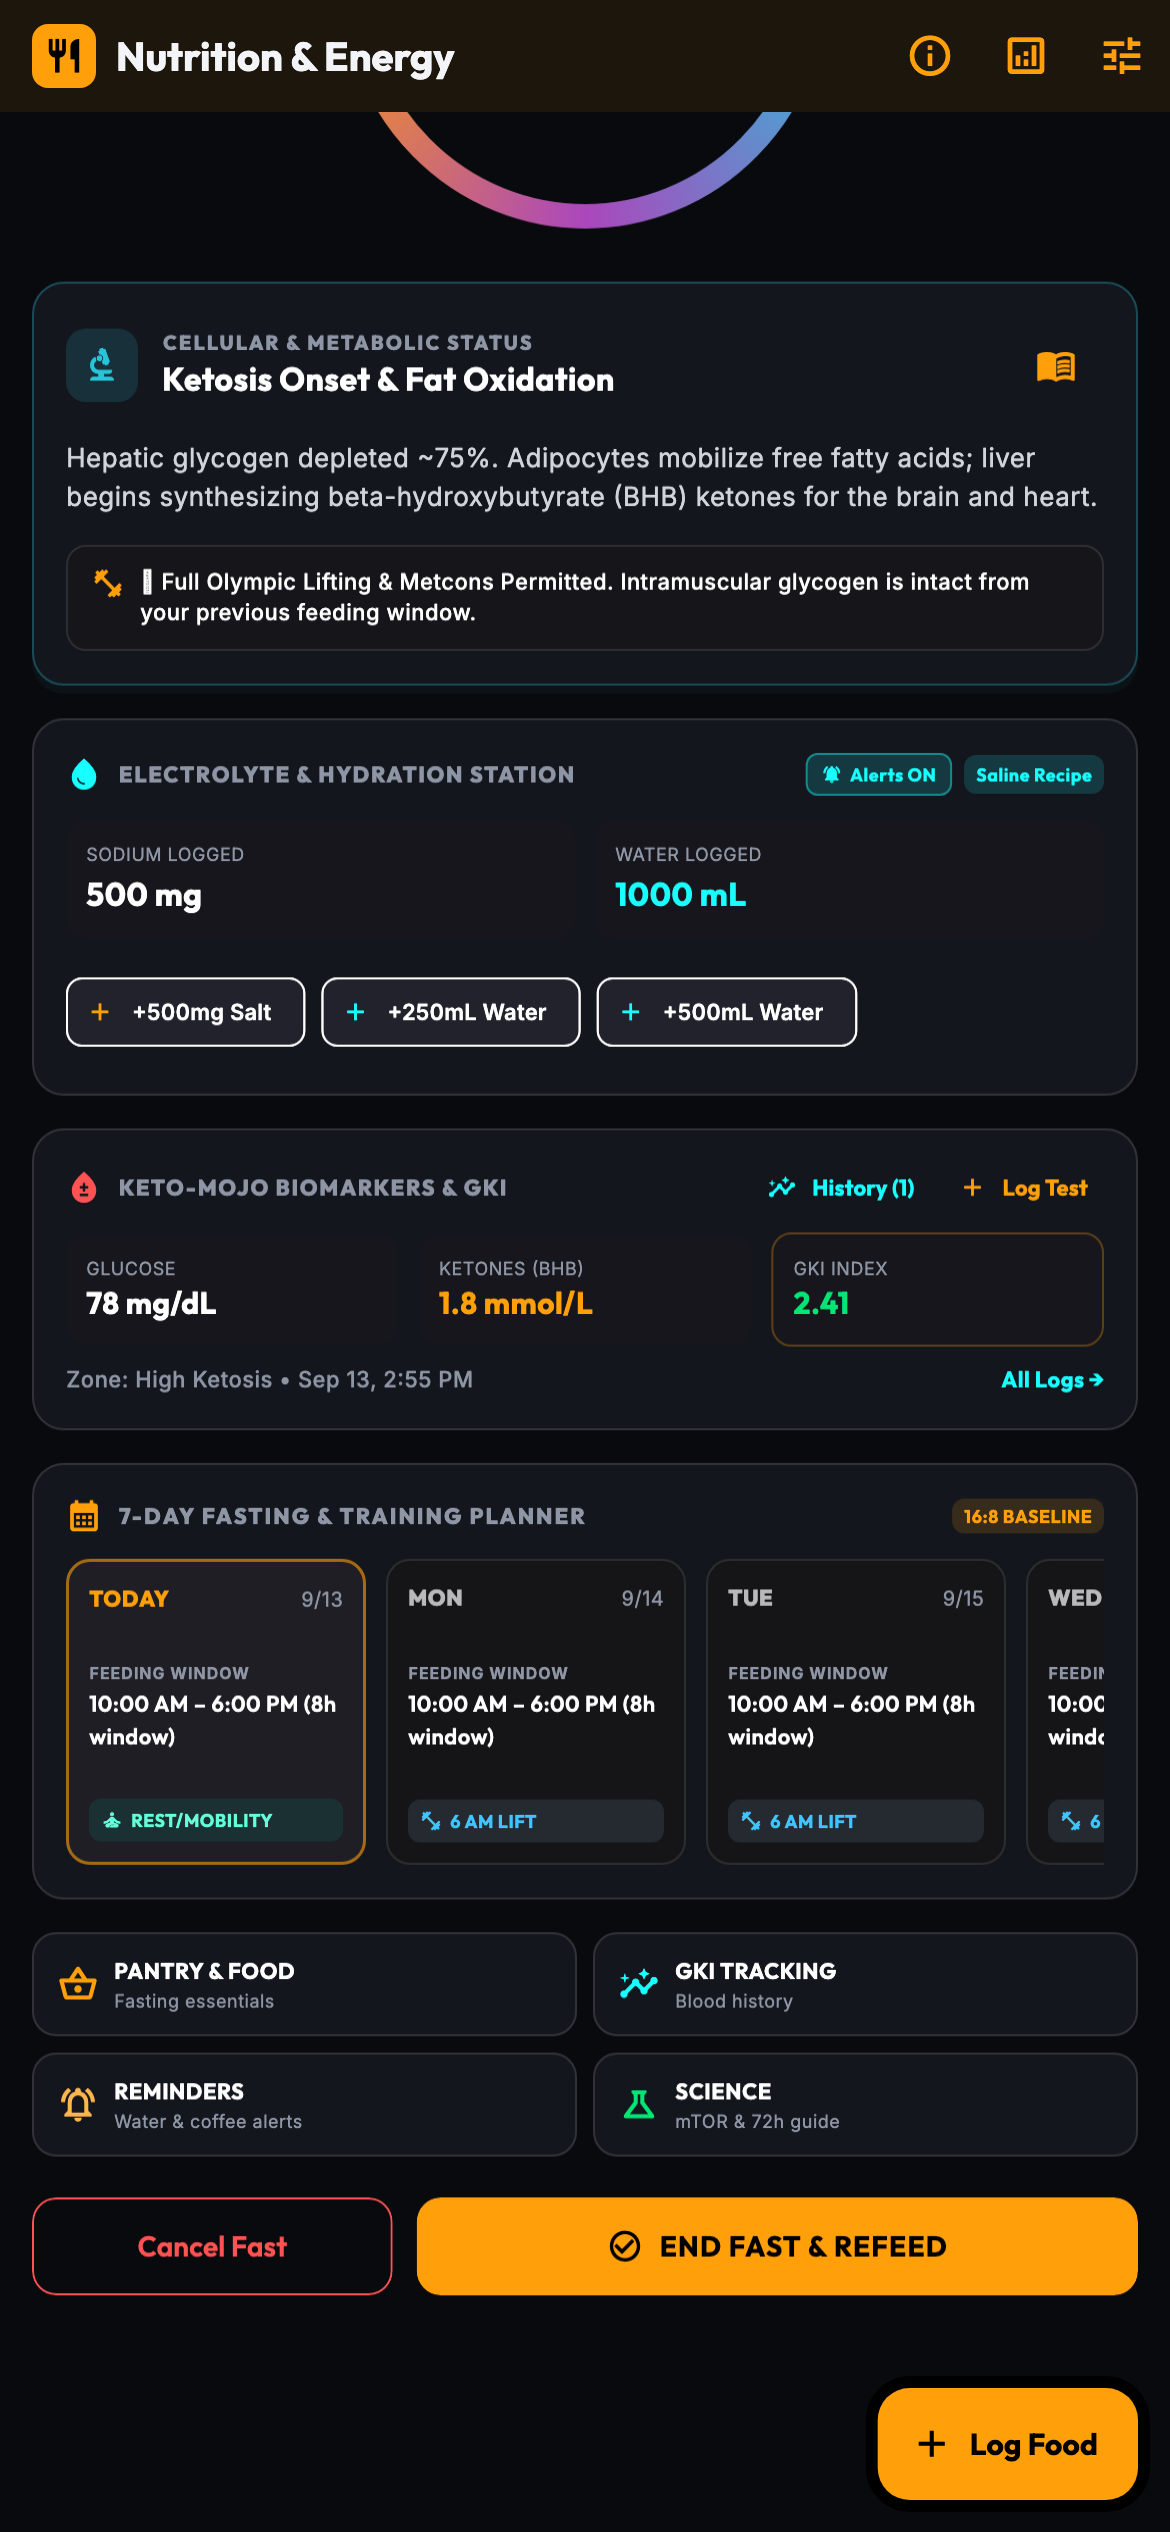
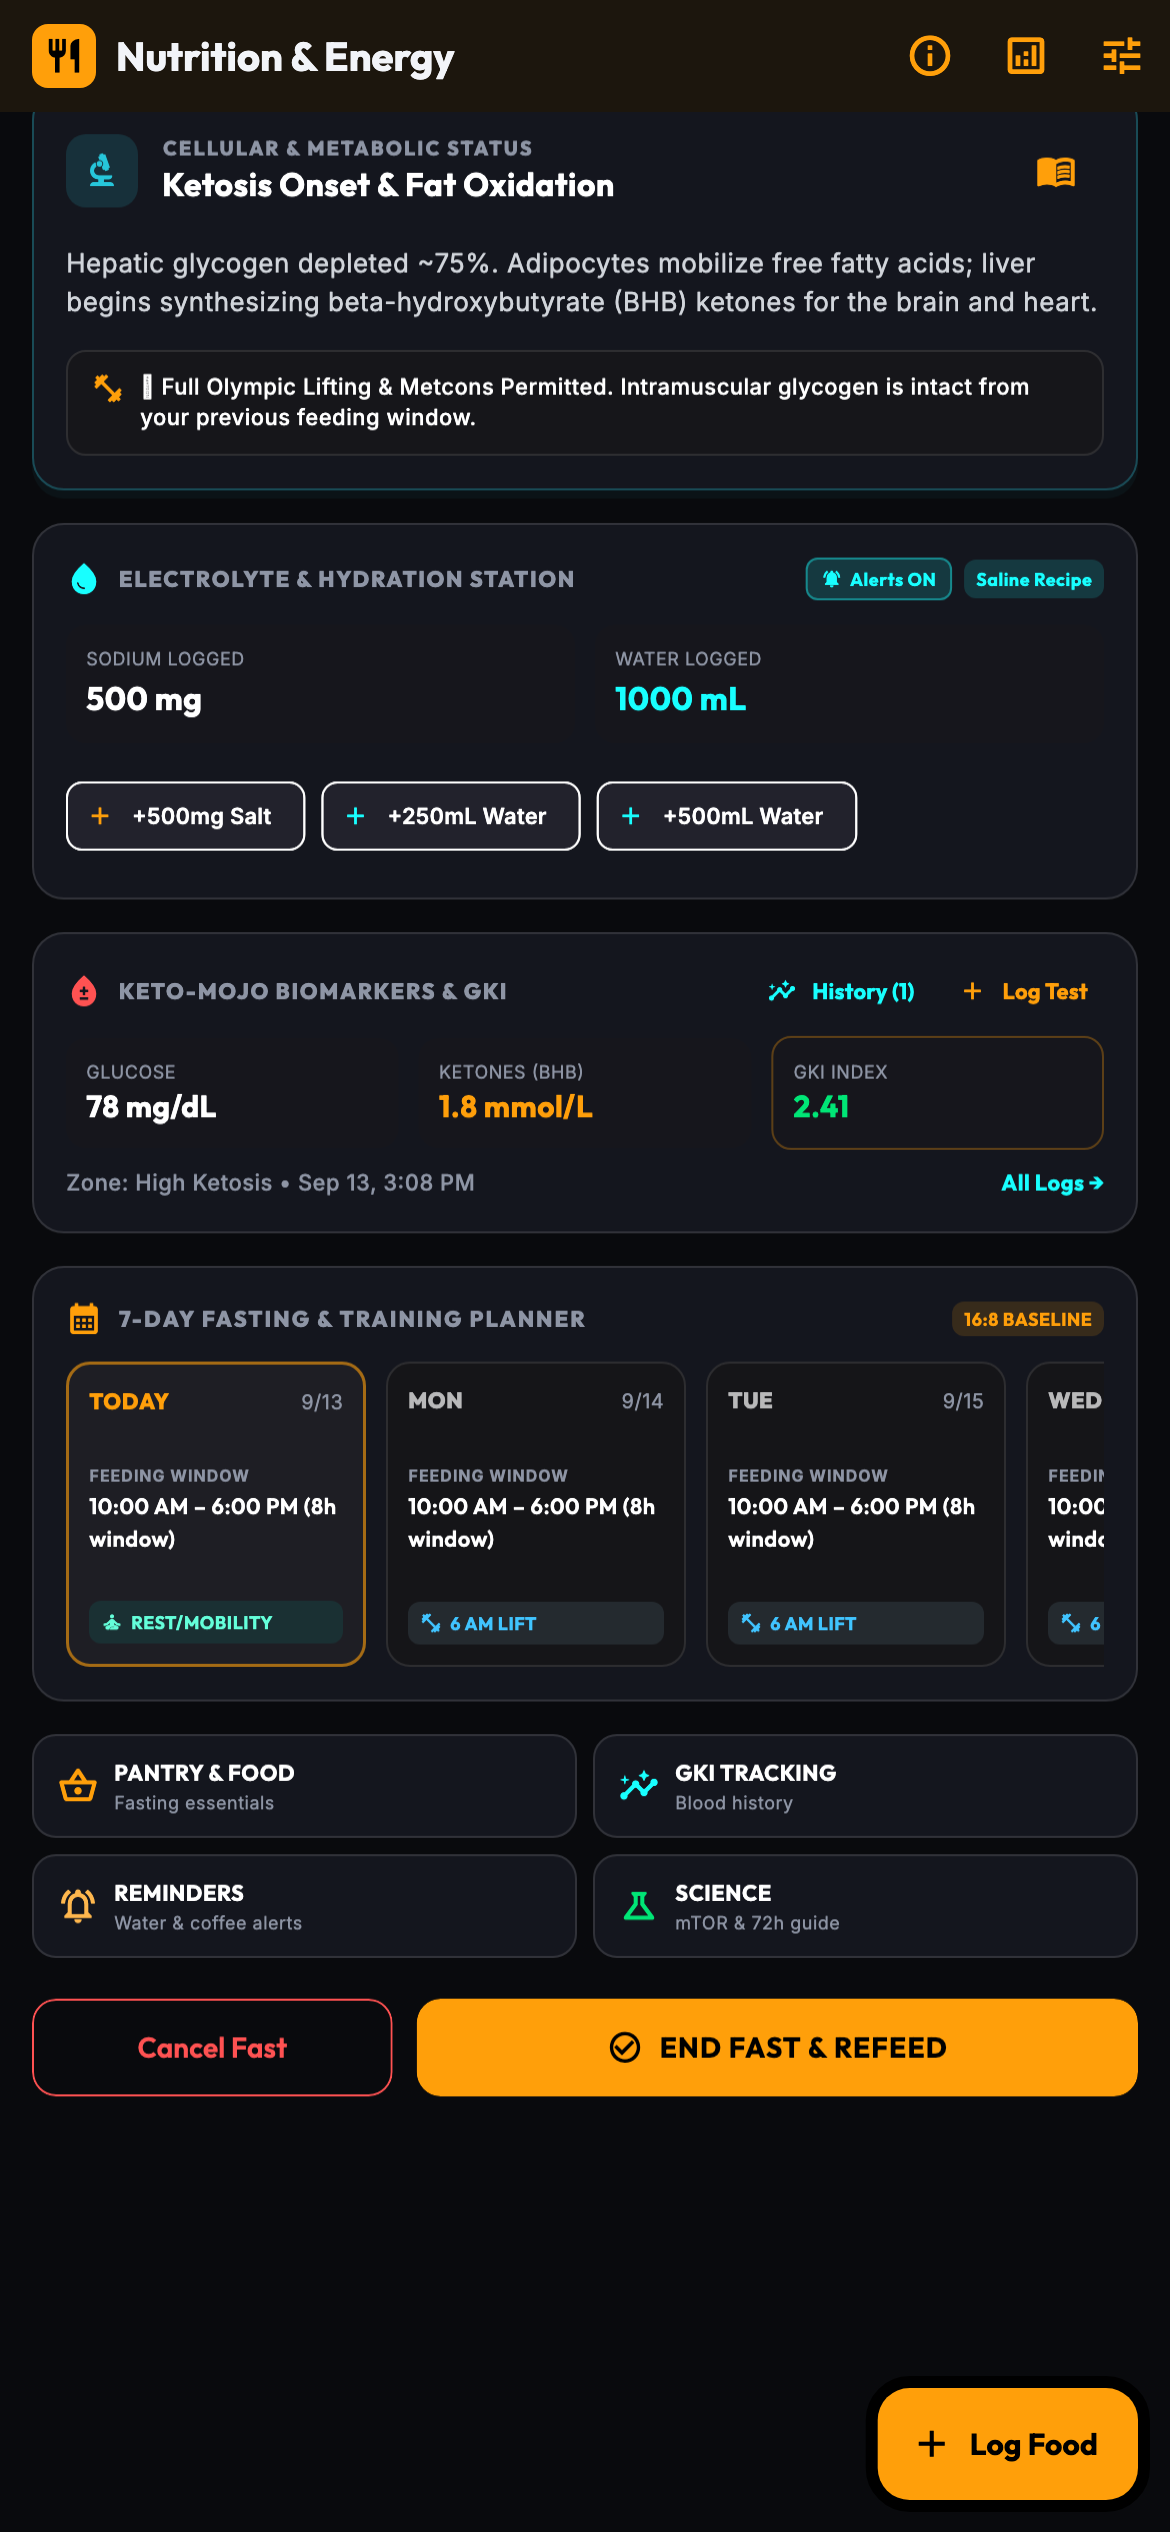
feat(ui): implement true glassmorphic floating capsule dock with extendBody and scroll depth

diff --git a/lib/views/analytics_screen.dart b/lib/views/analytics_screen.dart
@@ -91,7 +91,7 @@ class AnalyticsScreen extends StatelessWidget {
 
       // Ratio Balance Chart
       SingleChildScrollView(
-        padding: const EdgeInsets.all(16),
+        padding: const EdgeInsets.fromLTRB(16, 16, 16, 110),
         child: RatioChartWidget(ratios: lifts.getRatioAnalysis()),
       ),
     ];
@@ -129,7 +129,7 @@ class AnalyticsScreen extends StatelessWidget {
     SettingsProvider settings,
   ) {
     return SingleChildScrollView(
-      padding: const EdgeInsets.all(16),
+      padding: const EdgeInsets.fromLTRB(16, 16, 16, 110),
       child: Column(
         crossAxisAlignment: CrossAxisAlignment.start,
         children: <Widget>[
@@ -346,7 +346,7 @@ class AnalyticsScreen extends StatelessWidget {
     );
 
     return SingleChildScrollView(
-      padding: const EdgeInsets.all(16),
+      padding: const EdgeInsets.fromLTRB(16, 16, 16, 110),
       child: Column(
         crossAxisAlignment: CrossAxisAlignment.start,
         children: <Widget>[
@@ -692,7 +692,7 @@ class AnalyticsScreen extends StatelessWidget {
     final List<BenchmarkWodLog> recentLogs = recovery.benchmarkWodLogs.take(10).toList();
 
     return SingleChildScrollView(
-      padding: const EdgeInsets.all(16),
+      padding: const EdgeInsets.fromLTRB(16, 16, 16, 110),
       child: Column(
         crossAxisAlignment: CrossAxisAlignment.start,
         children: <Widget>[
@@ -1067,7 +1067,7 @@ class AnalyticsScreen extends StatelessWidget {
     final bool isLbs = settings.isLbs;
 
     return SingleChildScrollView(
-      padding: const EdgeInsets.all(16),
+      padding: const EdgeInsets.fromLTRB(16, 16, 16, 110),
       child: Column(
         crossAxisAlignment: CrossAxisAlignment.start,
         children: <Widget>[
@@ -1396,7 +1396,7 @@ class AnalyticsScreen extends StatelessWidget {
         c25k.sessionLogs.fold(0, (acc, l) => acc + l.netCaloriesBurned);
 
     return SingleChildScrollView(
-      padding: const EdgeInsets.all(16),
+      padding: const EdgeInsets.fromLTRB(16, 16, 16, 110),
       child: Column(
         crossAxisAlignment: CrossAxisAlignment.start,
         children: <Widget>[

diff --git a/lib/main.dart b/lib/main.dart
@@ -228,7 +228,9 @@ class _MainNavigationContainerState extends State<MainNavigationContainer> {
         WidgetsBinding.instance.runtimeType.toString().contains('Test');
 
     return Scaffold(
+      extendBody: true,
       body: SafeArea(
+        bottom: false,
         child: isTest
             ? IndexedStack(index: _currentIndex, children: screens)
             : AnimatedSwitcher(
@@ -257,9 +259,29 @@ class _MainNavigationContainerState extends State<MainNavigationContainer> {
               padding: const EdgeInsets.fromLTRB(16, 4, 16, 10),
               child: GlassContainer(
                 borderRadius: BorderRadius.circular(28),
-                ambientGlowColor: AppTheme.primaryAmber,
-                ambientGlowRadius: 0.9,
-                blur: 16,
+                blur: 24,
+                gradient: LinearGradient(
+                  begin: Alignment.topCenter,
+                  end: Alignment.bottomCenter,
+                  colors: <Color>[
+                    const Color(0xFF161926).withValues(alpha: 0.65),
+                    const Color(0xFF0C0E14).withValues(alpha: 0.78),
+                  ],
+                ),
+                border: Border.all(
+                  color: Colors.white.withValues(alpha: 0.16),
+                ),
+                boxShadow: <BoxShadow>[
+                  BoxShadow(
+                    color: Colors.black.withValues(alpha: 0.45),
+                    blurRadius: 28,
+                    offset: const Offset(0, 8),
+                  ),
+                  BoxShadow(
+                    color: AppTheme.primaryAmber.withValues(alpha: 0.08),
+                    blurRadius: 20,
+                  ),
+                ],
                 padding: EdgeInsets.zero,
                 child: ClipRRect(
                   borderRadius: BorderRadius.circular(28),

diff --git a/test/screenshot_capture_test.dart b/test/screenshot_capture_test.dart
@@ -300,6 +300,12 @@ void main() {
       await tester.pumpWidget(buildTestScreen(const MainNavigationContainer()));
       await captureScreen(tester, '00_main_app_capsule_dock');
 
+      final Finder scrollable = find.byType(Scrollable);
+      if (scrollable.evaluate().isNotEmpty) {
+        await tester.drag(scrollable.first, const Offset(0, -380));
+        await captureScreen(tester, '00_main_app_capsule_dock_scrolled');
+      }
+
       expect(find.byType(BottomNavigationBar), findsOneWidget);
     });
 

diff --git a/lib/views/nutrition/nutrition_dashboard_screen.dart b/lib/views/nutrition/nutrition_dashboard_screen.dart
@@ -123,7 +123,7 @@ class _NutritionDashboardScreenState extends State<NutritionDashboardScreen> {
       ),
       body: SafeArea(
         child: SingleChildScrollView(
-          padding: const EdgeInsets.symmetric(horizontal: 16, vertical: 12),
+          padding: const EdgeInsets.fromLTRB(16, 12, 16, 110),
           child: Column(
             crossAxisAlignment: CrossAxisAlignment.start,
             children: <Widget>[

diff --git a/lib/views/recover_screen.dart b/lib/views/recover_screen.dart
@@ -130,7 +130,7 @@ class RecoverScreen extends StatelessWidget {
       ),
       body: SafeArea(
         child: ListView(
-          padding: const EdgeInsets.symmetric(horizontal: 16, vertical: 12),
+          padding: const EdgeInsets.fromLTRB(16, 12, 16, 110),
           children: <Widget>[
             // 1. Holistic Daily Readiness Score Card
             OlyEntryReveal(

diff --git a/lib/views/dashboard_screen.dart b/lib/views/dashboard_screen.dart
@@ -141,7 +141,7 @@ class DashboardScreen extends StatelessWidget {
       ),
       body: SafeArea(
         child: SingleChildScrollView(
-          padding: const EdgeInsets.all(16),
+          padding: const EdgeInsets.fromLTRB(16, 16, 16, 110),
           child: Column(
             crossAxisAlignment: CrossAxisAlignment.start,
             children: <Widget>[

diff --git a/lib/views/breathing/breathing_analytics_tab.dart b/lib/views/breathing/breathing_analytics_tab.dart
@@ -29,7 +29,7 @@ class _BreathingAnalyticsTabState extends State<BreathingAnalyticsTab> {
     }
 
     return SingleChildScrollView(
-      padding: const EdgeInsets.all(16),
+      padding: const EdgeInsets.fromLTRB(16, 16, 16, 110),
       child: Column(
         crossAxisAlignment: CrossAxisAlignment.start,
         children: <Widget>[
